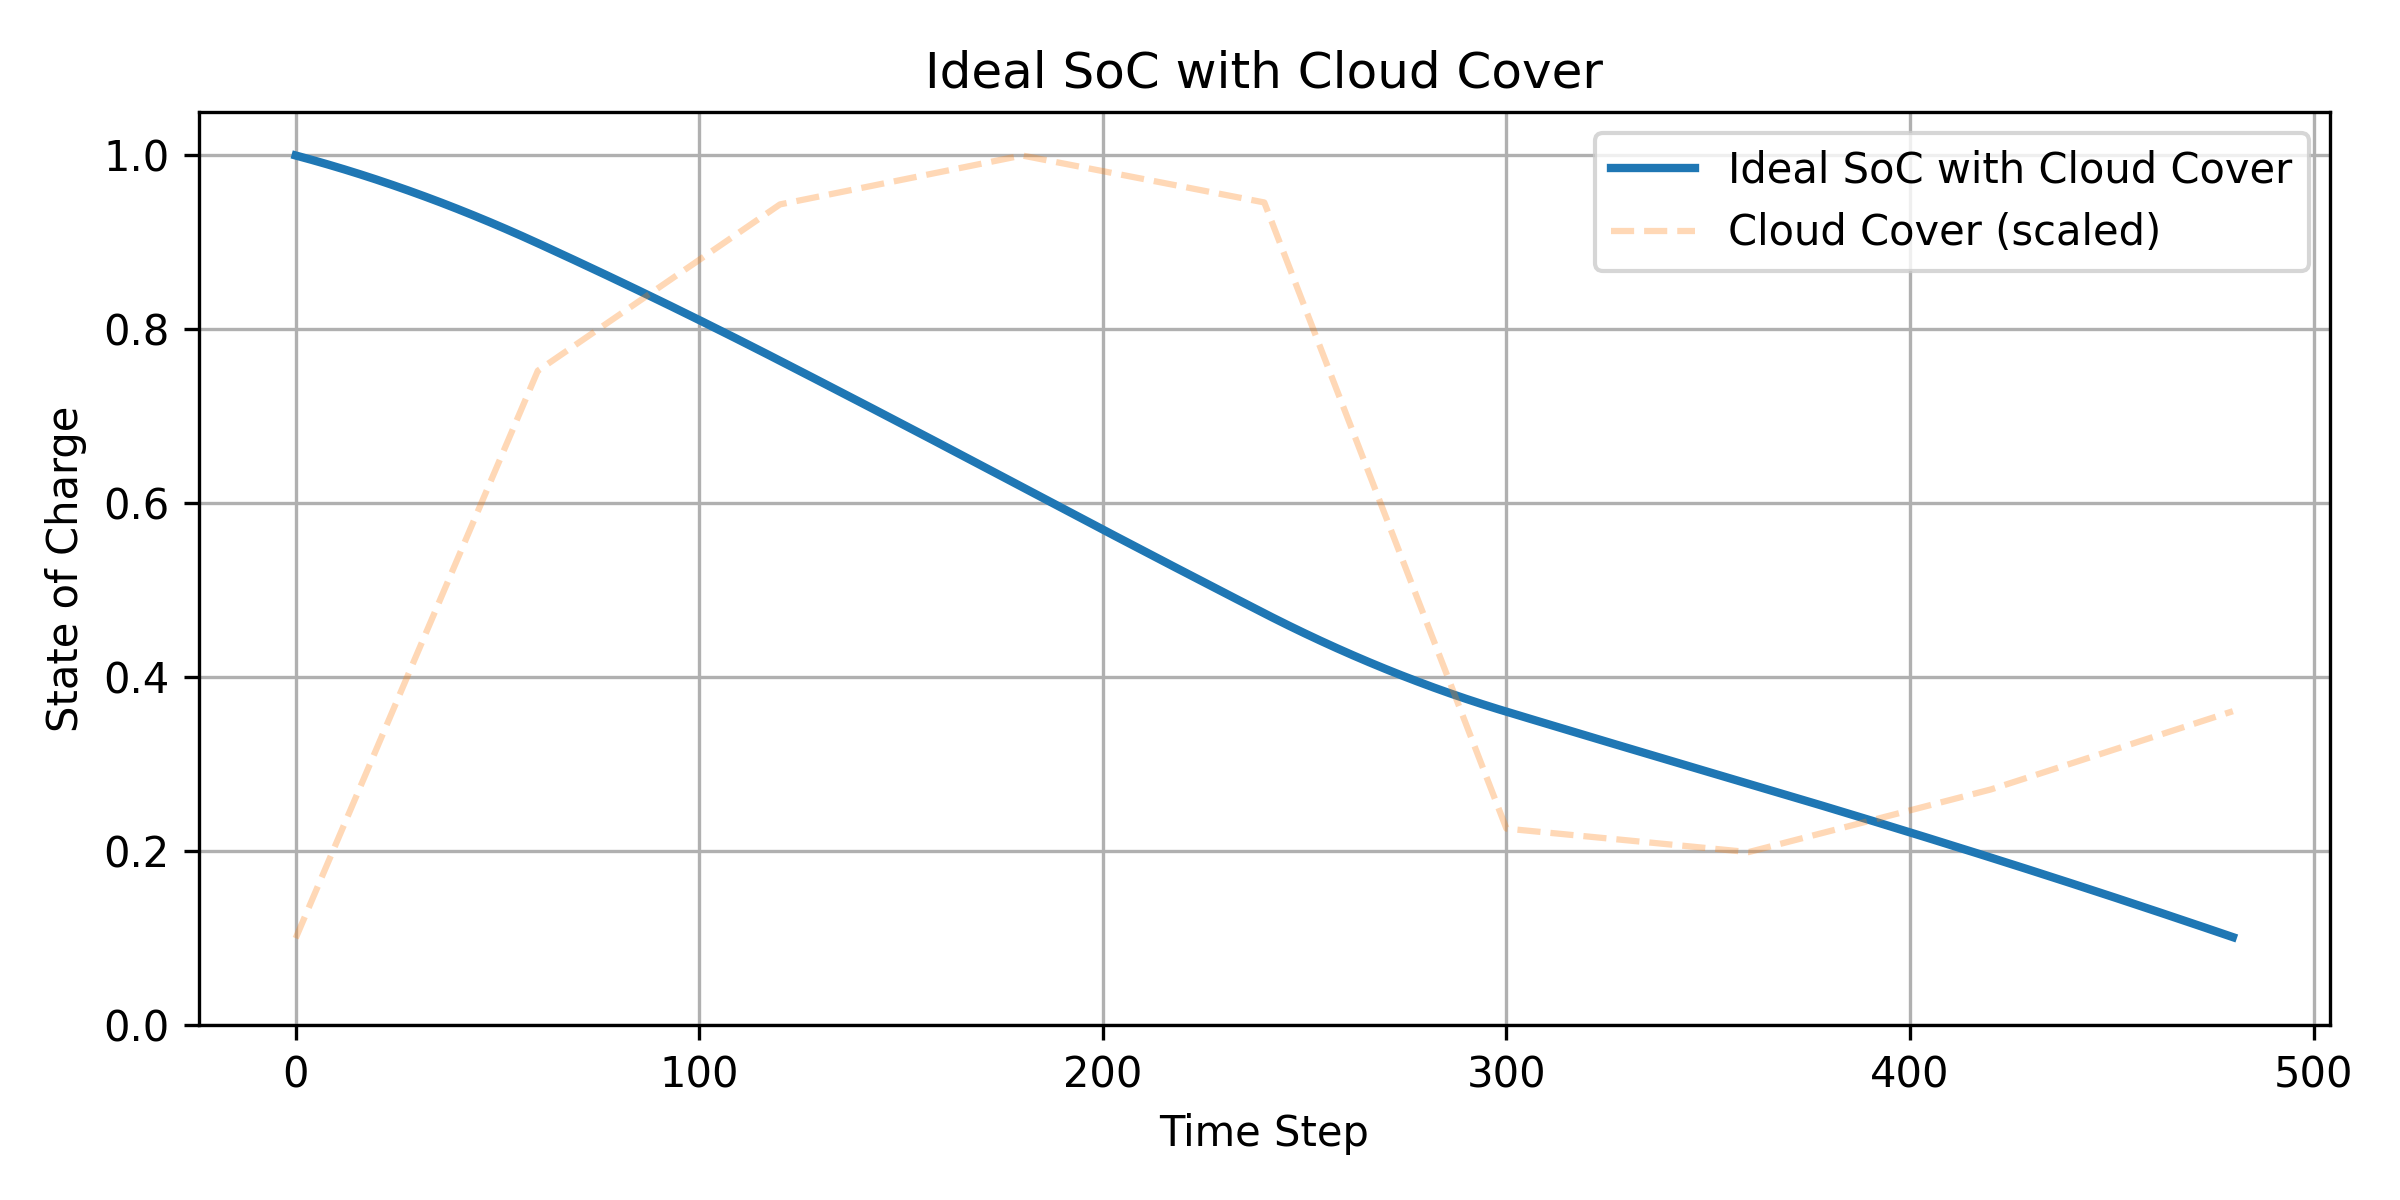
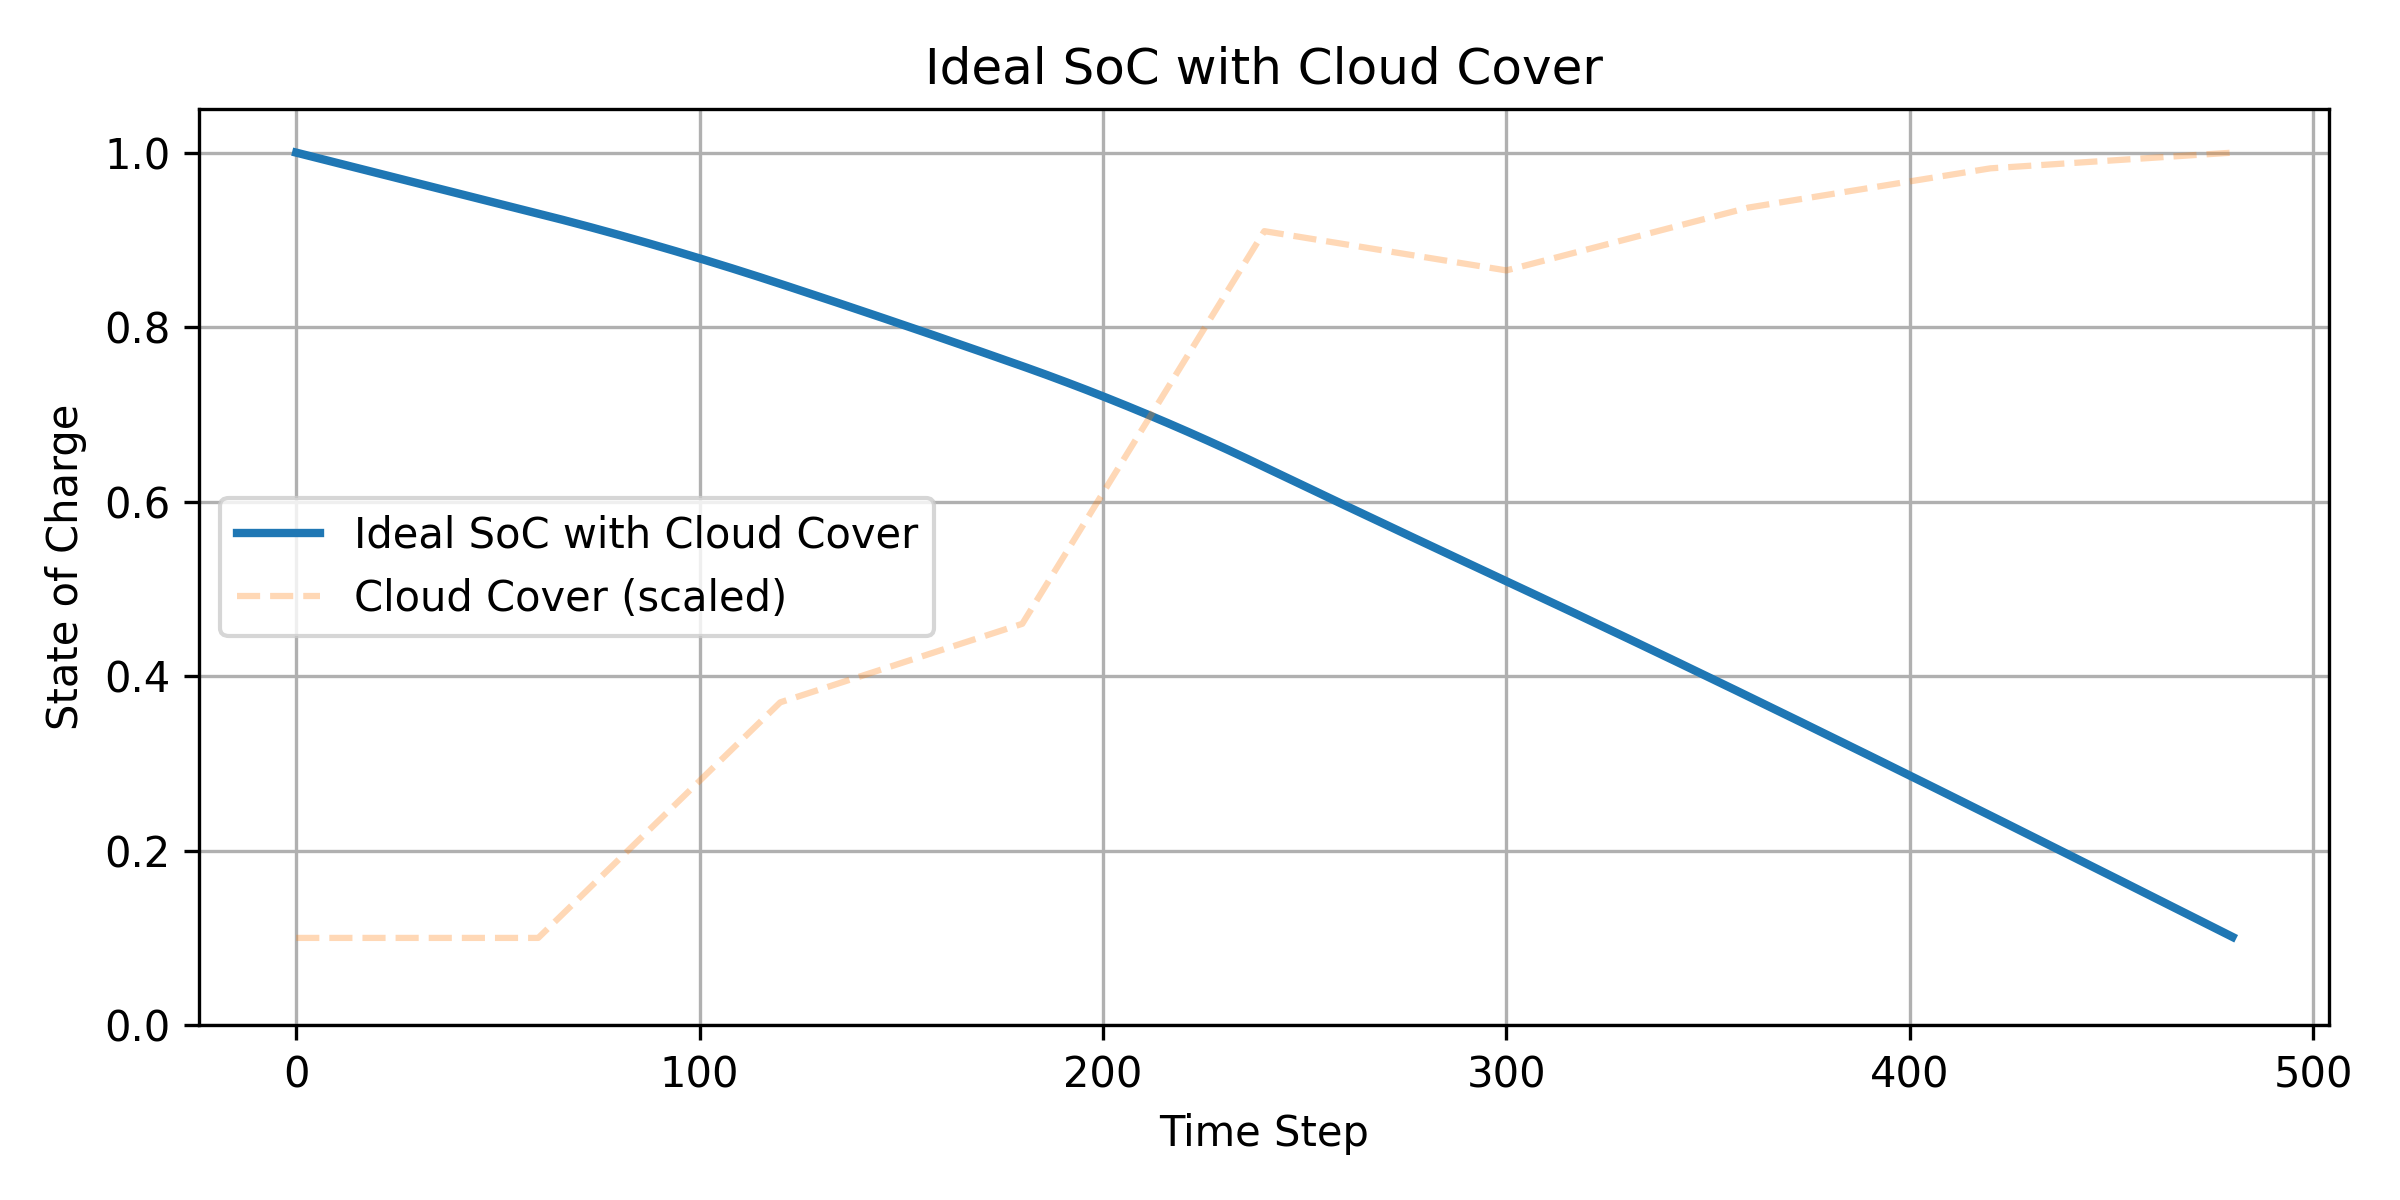
added time step dt in bdr calculation

diff --git a/cross_country_sim.py b/cross_country_sim.py
@@ -153,12 +153,18 @@ def simulate_race_cloud(start_soc=1.0, target_soc=0.10, aggressiveness=1.0):
     for step, i in enumerate(range(0, len(ghi_data), 10)):
         ghi = ghi_data[i].clip(0)
         cloud = cloud_data[i]
-
+        
         ein = calculate_solar_charge(ghi)
         eout = power_drained(v)
-
-        bdr = (eout - ein) / battery_capacity
-        soc += (ein - eout) * (10 / 60) / battery_capacity
+        
+        #added dt for time step (10 min time step)
+        dt_hours = 10 / 60
+        bdr = (eout - ein) * dt_hours / battery_capacity
+        soc -= bdr
+        
+        # bdr = (eout - ein) / battery_capacity
+        # soc += (ein - eout) * (10 / 60) / battery_capacity
+        
 
         soc_error = soc - ideal_soc_curve[i]
 
